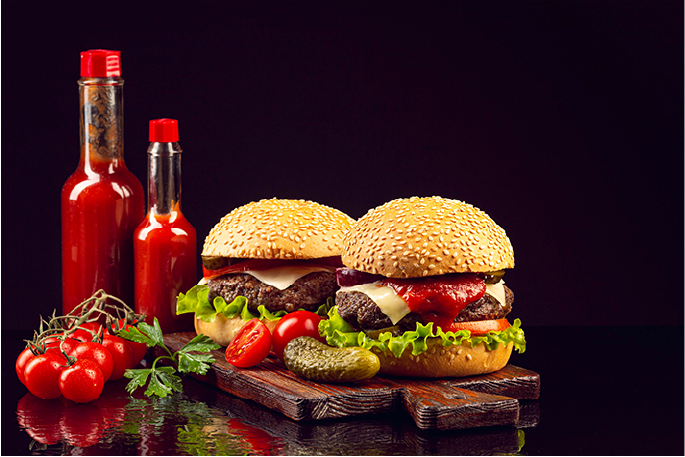
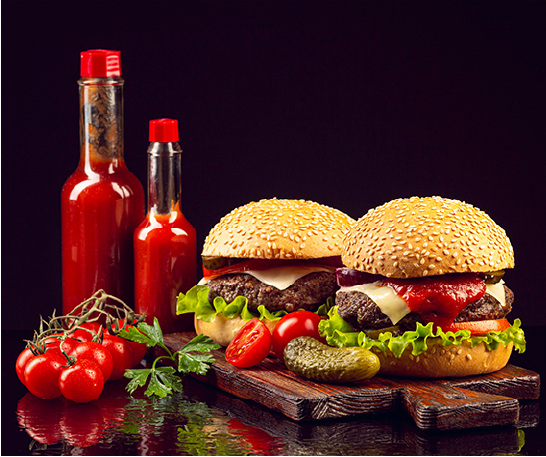
add order

diff --git a/component/orderNowDiv.js b/component/orderNowDiv.js
@@ -1,0 +1,26 @@
+"use client";
+import React from 'react'
+import Image  from 'next/image';
+import assetr2 from '../images/Asset2.png'
+import assetr1 from '../images/Asset1.png'
+const OrderNowDiv = () => {
+  return (
+    <div className="order-div">
+      <div className='twoburger-img-div' >
+        <Image  src={assetr2}   layout='responsive' objectFit='cover'  objectPosition='center' alt="Picture of the author" />
+      </div>
+      <div className='offer-img-div'>
+        <div className="offer-text">
+        <Image  src={assetr1}  layout='responsive' objectFit='cover'  objectPosition='center' alt="Picture of the author" />
+        <div className='offer-text-cont' style={{display:"flex" , flexDirection :"column"}}>
+            <div className='offer-title'><span >2 for $10 breakfast deal</span></div>
+            <div className='dots'>. . .  . </div>
+            <div className='under-dots'><span > 2 for $10 breakfast deal 2 for $10 breakfast deal 2 for $10 breakfast deal</span></div>
+        </div>
+        </div>
+      </div>
+    </div>
+  );
+}
+
+export default OrderNowDiv

diff --git a/src/app/globals.css b/src/app/globals.css
@@ -3,6 +3,7 @@
 body {
   background-color: #100115;
   font-family: "ADLaM Display", cursive !important;
+  font-size: 40px;
 }
 
 @media only screen and (max-width: 750px) {
@@ -29,4 +30,52 @@ body {
   .drawer {
     display: none;
   }
+}
+
+.order-div{
+  width: 100%;
+  position: relative;
+    margin-top: 80px;
+}
+.twoburger-img-div{
+  width: 75%;
+  overflow: hidden;
+}
+.offer-img-div{
+  width: 34%;
+  position: absolute;
+  right: 15%;
+  top:5%
+  
+}
+
+.offer-text{
+  position: relative;
+  text-align: center;
+}
+.offer-text-cont{
+  position: absolute;
+  align-items: center;
+  width: 100%;
+  text-align: center;
+  color: aliceblue;
+   top: 30%;
+   padding-left: 26%;
+   padding-right: 20%;
+   line-height: 1;
+  
+}
+.offer-title{
+  color: #E9AF05;
+  font-size: 2vw;
+  text-transform: uppercase;
+}
+.dots{
+  font-size: 1.8vw;
+}
+.under-dots{
+  font-size: 1.1vw;
+  line-height: 1;
+  padding: 5px;
+  padding-top: 10px;
 }

diff --git a/src/app/page.js b/src/app/page.js
@@ -1,13 +1,13 @@
 import Image from 'next/image'
 import styles from './page.module.css'
 import DrawerAppBar from '../../component/drawerAppBar'
+import OrderNowDiv from '../../component/orderNowDiv'
 
 export default function Home() {
   return (
-    <main className={styles.main}>
-      
-        <DrawerAppBar/>
-        
-    </main>
+    <>  
+    <DrawerAppBar/>
+    <OrderNowDiv />
+    </>
   )
 }

diff --git a/component/drawerAppBar.js b/component/drawerAppBar.js
@@ -62,8 +62,8 @@ function DrawerAppBar(props) {
   return (
     <Box sx={{ display: "flex" }}>
       <CssBaseline />
-      <AppBar component="nav" color="transparent">
-        <Toolbar className="toolbar">
+      <AppBar  component="nav" color="transparent">
+        <Toolbar  className="toolbar">
           <Image
             src="/favicon.ico"
             width={40}
